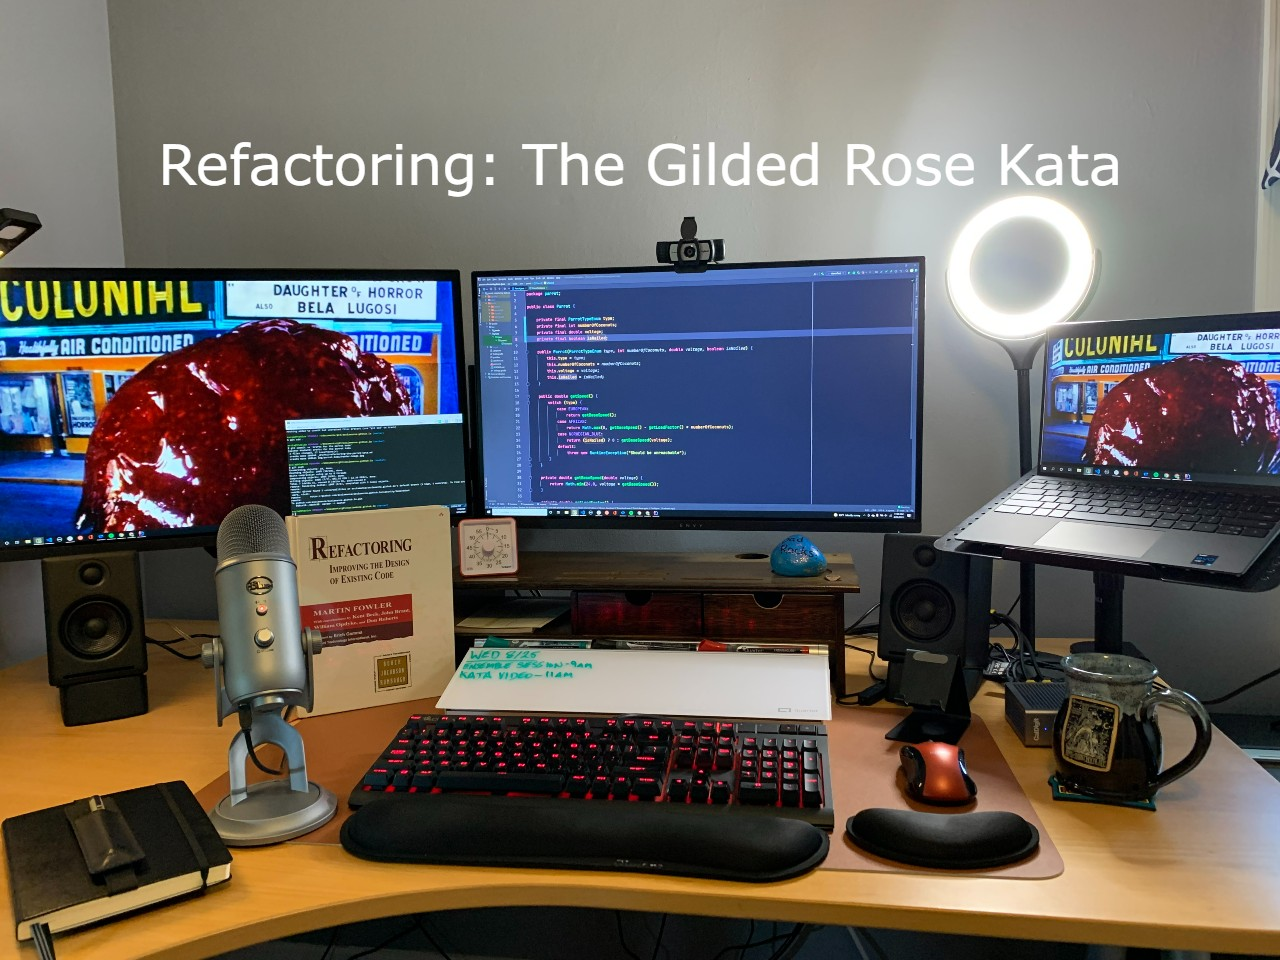
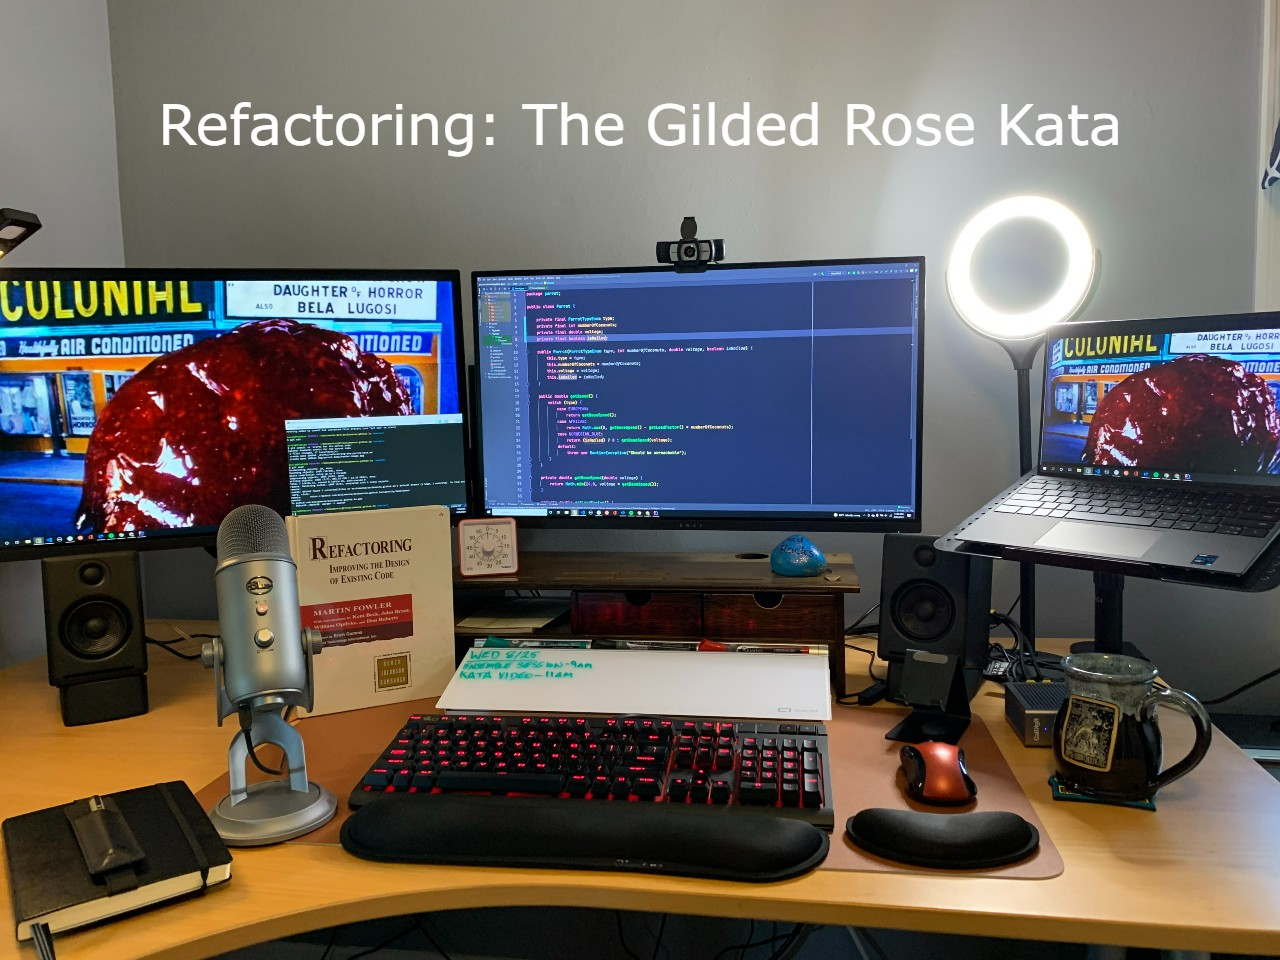
updates to preview image

Changed region(s): [[0.4062, 0.0938, 0.875, 0.2188], [0.125, 0.0938, 0.375, 0.2188]]

diff --git a/_posts/2022-03-03-refactoring-the-gilded-rose-kata.md b/_posts/2022-03-03-refactoring-the-gilded-rose-kata.md
@@ -6,7 +6,7 @@ subtitle:
 comments: true
 excerpt_separator: <!--more-->
 summary: Follow along while I practice the Gilded Rose Kata in Java. We'll identify code smells in the existing code and refactor until we can easily and safely add the new feature.
-image: /img/gilded-rose-kata/gilded-rose-kata.jpg
+image: /img/gilded-rose-kata/gilded-rose-header.jpg
 category: code craft
 tags: ['screencast', 'code kata', 'refactoring', 'java']
 ---
